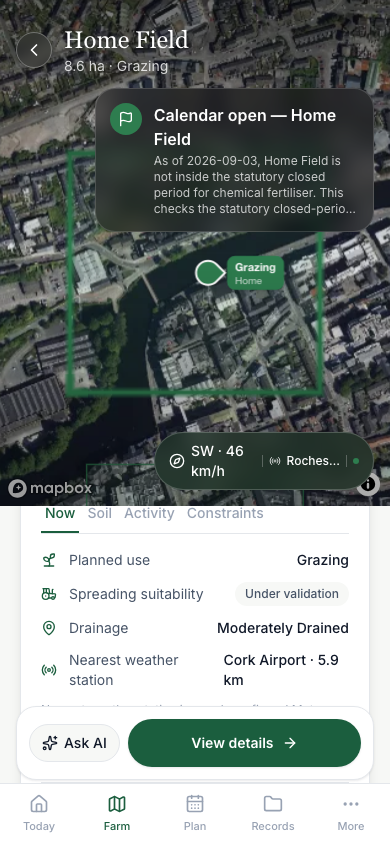
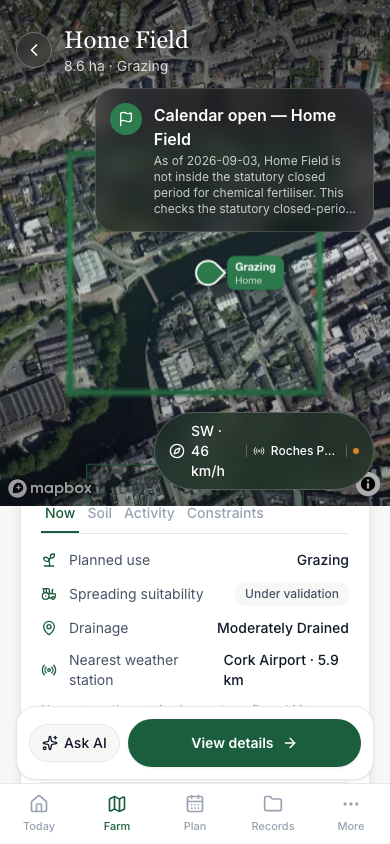
Final whole-session Codex audit round 3: fix 2 High + 2 Medium real findings, log 1 non-blocking
`scripts/codex-audit.sh --base 29ced80`, re-run after round 2's fixes —
CRITICAL=0, HIGH=2, MEDIUM=2, LOW=0:

- HIGH — `FieldWindChip.tsx`'s own round-1 provenance fix showed the
  real station's name but dropped its real `distanceKm` — "the same
  provenance as `CurrentConditionsCard`" needs both (that component's
  own rule: name alone doesn't say how far the reading actually is from
  the field). Both now shown together, in the visible text and the
  `aria-label`.

- MEDIUM — `fields/page.tsx`'s round-1 URL-sync fix only ever *opened* a
  field from `?field=`, never closed one: navigating to a URL with the
  param removed, or changed to an invalid/archived id, left
  `selectedFieldId` (and the detail view) stale. Now syncs
  unconditionally to `linkedFieldId` (genuinely `undefined` in both
  those cases) on a real param change, not just when it resolves to a
  real field.

- MEDIUM — `MapHero`'s `flyToSelection` effect (Field detail's own
  camera-follow) keyed only on `selectedFieldId`, so editing the
  *currently selected* field's own boundary updated the map source but
  never re-flew the camera (the id itself hadn't changed). A real
  signature of the selected field's own ring coordinates — same
  approach as `wholeFarmBoundsSignature`'s own round-2 fix, scoped to
  one field — is now a dependency too.

Logged, not fixed (non-blocking — the current HEAD's own state is fully
compliant, this is a historical commit-sequencing observation, not a
[…]

Changed region(s): [[0.4, 0.4621, 0.9538, 0.5853], [0.5846, 0.3081, 0.7077, 0.3389]]

diff --git a/src/app/(app)/fields/page.tsx b/src/app/(app)/fields/page.tsx
@@ -67,27 +67,34 @@ function FieldsPageContent() {
   // field guess. `detailField` (not this) is what actually decides
   // which mode renders.
   const [selectedFieldId, setSelectedFieldId] = useState<string | undefined>(linkedFieldId);
-  // Final whole-session Codex audit (MEDIUM): `useState`'s initial value
-  // is read only once, at first render — if `fields` hydrates *after*
-  // that first render (a real, common timing on this app's own real
-  // farm-data fetch), `requestedFieldId` only becomes a valid
-  // `linkedFieldId` later, and the requested field would never actually
-  // open. Re-syncs whenever the raw `?field=` value itself changes to a
-  // new, real, defined field id (a fresh link/navigation) — but never
-  // overwrites a field the farmer has since explicitly opened or backed
-  // out of via `handleSelectField`/`onBack` below, which mark
-  // `lastAppliedRequestedFieldId` themselves so this effect treats that
-  // as "already applied," not a hydration gap to fill.
+  // Final whole-session Codex audit round 1 (MEDIUM): `useState`'s
+  // initial value is read only once, at first render — if `fields`
+  // hydrates *after* that first render (a real, common timing on this
+  // app's own real farm-data fetch), `requestedFieldId` only becomes a
+  // valid `linkedFieldId` later, and the requested field would never
+  // actually open. Re-syncs whenever the raw `?field=` value itself
+  // changes — but never overwrites a field the farmer has since
+  // explicitly opened or backed out of via `handleSelectField`/`onBack`
+  // below, which mark `lastAppliedRequestedFieldId` themselves so this
+  // effect treats that as "already applied," not a hydration gap to fill.
+  //
+  // Round 3 (MEDIUM): round 1's own fix only ever *opened* a field, never
+  // closed one — navigating to a URL with `?field=` removed, or changed
+  // to an id that's invalid/archived, left `selectedFieldId` (and so the
+  // detail view) stale. Syncing unconditionally to `linkedFieldId`
+  // (which is genuinely `undefined` in both those cases) on a real param
+  // change now closes that gap too — the URL is the honest source of
+  // truth for what's requested, including "nothing"/"nothing valid."
   const lastAppliedRequestedFieldId = useRef(requestedFieldId);
   useEffect(() => {
     if (requestedFieldId !== lastAppliedRequestedFieldId.current) {
       lastAppliedRequestedFieldId.current = requestedFieldId;
-      // eslint-disable-next-line react-hooks/set-state-in-effect -- synchronising React state from an external source (the URL's own `?field=` query param), the sanctioned use this rule itself carves out — same pattern as `handleSelectField` reacting to a real tap, just triggered by a real navigation instead.
-      if (linkedFieldId) setSelectedFieldId(linkedFieldId);
+      setSelectedFieldId(linkedFieldId);
     } else if (linkedFieldId && selectedFieldId === undefined) {
       // Same requested id as last render, but it has only just become a
       // real, mapped field (`fields` finished hydrating) — the real
-      // "hydrates later" case the audit finding named directly.
+      // "hydrates later" case round 1's own finding named directly.
+      // eslint-disable-next-line react-hooks/set-state-in-effect -- synchronising React state from an external source (the URL's own `?field=` query param), the sanctioned use this rule itself carves out — same pattern as `handleSelectField` reacting to a real tap, just triggered by a real navigation instead.
       setSelectedFieldId(linkedFieldId);
     }
     // eslint-disable-next-line react-hooks/exhaustive-deps -- selectedFieldId is read, not a trigger: this effect only ever *sets* it from a real URL change or a real hydration completion, never reacts to a farmer's own subsequent selection (handleSelectField/onBack already update lastAppliedRequestedFieldId themselves).

diff --git a/src/components/farm/FieldWindChip.tsx b/src/components/farm/FieldWindChip.tsx
@@ -38,13 +38,20 @@ interface WeatherApiResponse {
  * nothing when either real value is unavailable — never a guessed
  * direction or speed.
  *
- * Final whole-session Codex audit (HIGH x2): the km/h conversion now
- * comes from `src/domain/wind-speed.ts` (a pure, tested module), not an
- * inline `* 3.6` here; and the reading now always shows its real
- * station and freshness alongside it — `CurrentConditionsCard`'s own
- * rule ("station name and distance are always shown alongside every
+ * Final whole-session Codex audit round 1 (HIGH x2): the km/h
+ * conversion now comes from `src/domain/wind-speed.ts` (a pure, tested
+ * module), not an inline `* 3.6` here; and the reading now always shows
+ * its real station and freshness alongside it — `CurrentConditionsCard`'s
+ * own rule ("station name and distance are always shown alongside every
  * reading so a farmer never mistakes this for an in-field sensor")
  * applied here too, not just on the whole-farm chip.
+ *
+ * Round 3 (HIGH): round 1's own fix showed the station's real name but
+ * dropped its real `distanceKm` — "the same provenance as
+ * `CurrentConditionsCard`" requires both, per that component's own rule
+ * quoted above (name alone doesn't say how far the reading actually is
+ * from the field). Both are shown together now, in the visible text and
+ * the `aria-label`.
  */
 export function FieldWindChip({ centroid }: { centroid: [number, number] }) {
   const [data, setData] = useState<WeatherApiResponse | null>(null);
@@ -78,7 +85,7 @@ export function FieldWindChip({ centroid }: { centroid: [number, number] }) {
     <span
       className="flex max-w-[220px] items-center gap-1.5 rounded-full border border-white/20 bg-fr-green-900/55 px-3.5 py-2 text-sm font-medium text-white backdrop-blur-md"
       aria-label={`Wind ${formatWindDirection(latest.windDirectionDeg)} ${formatNumber(windKmh, 0)} km/h${
-        station ? `, ${station.canonicalName} station` : ""
+        station ? `, ${station.canonicalName} station, ${formatNumber(station.distanceKm, 1)}km away` : ""
       }, ${freshness.toLowerCase()}`}
     >
       <Compass className="size-4 shrink-0" aria-hidden="true" />
@@ -87,7 +94,9 @@ export function FieldWindChip({ centroid }: { centroid: [number, number] }) {
         <>
           <span className="h-3 w-px shrink-0 bg-white/25" aria-hidden="true" />
           <Radio className="size-3 shrink-0 opacity-80" aria-hidden="true" />
-          <span className="truncate text-xs">{station.canonicalName}</span>
+          <span className="truncate text-xs">
+            {station.canonicalName} · {formatNumber(station.distanceKm, 1)}km
+          </span>
         </>
       ) : null}
       <span className="h-3 w-px shrink-0 bg-white/25" aria-hidden="true" />

diff --git a/src/components/farm/MapHero.tsx b/src/components/farm/MapHero.tsx
@@ -525,6 +525,19 @@ export function MapHero({
     // eslint-disable-next-line react-hooks/exhaustive-deps -- mappedFields is derived fresh every render from the fields prop; wholeFarmBoundsSignature (a real id+centroid summary) is what actually determines whether this should re-fit, not a new array identity for the same real field set.
   }, [wholeFarmBoundsSignature, flyToSelection]);
 
+  // Real signature of just the selected field's own boundary — same real
+  // id+ring-coordinates approach as `wholeFarmBoundsSignature` above,
+  // scoped to one field. Final whole-session Codex audit round 3
+  // (MEDIUM): the effect below keyed only on `selectedFieldId`, so
+  // editing the *currently selected* field's own boundary updated the
+  // map source but never re-flew the camera (the id itself hadn't
+  // changed) — a real edit could leave the new shape outside the frame.
+  const selectedFieldBoundsSignature = flyToSelection
+    ? (mappedFields.find((f) => f.id === selectedFieldId)?.polygon.coordinates[0] ?? [])
+        .map(([lng, lat]) => `${lng.toFixed(6)},${lat.toFixed(6)}`)
+        .join(";")
+    : "";
+
   // Codex audit round 1 (Phase V2, Farm/Field exploration): real
   // tap-to-select needs a real camera response, not just a list/drawer
   // update elsewhere on the page — flies to the selected field's own
@@ -555,8 +568,8 @@ export function MapHero({
       ],
       { padding: flyToPadding ?? 80, maxZoom: flyToMaxZoom, duration: 600 },
     );
-    // eslint-disable-next-line react-hooks/exhaustive-deps -- mappedFields is derived fresh every render from the fields prop; keying on selectedFieldId (and the map/flyToSelection refs) is what actually determines whether this should re-fly, not a new array identity for the same real field set.
-  }, [selectedFieldId, flyToSelection, flyToMaxZoom]);
+    // eslint-disable-next-line react-hooks/exhaustive-deps -- mappedFields is derived fresh every render from the fields prop; keying on selectedFieldId + selectedFieldBoundsSignature (and the map/flyToSelection refs) is what actually determines whether this should re-fly, not a new array identity for the same real field set.
+  }, [selectedFieldId, selectedFieldBoundsSignature, flyToSelection, flyToMaxZoom]);
 
   // Real "you are here" dot (media/image2.png's own literal composition)
   // — a genuine one-shot browser geolocation fix, kept in its own effect
